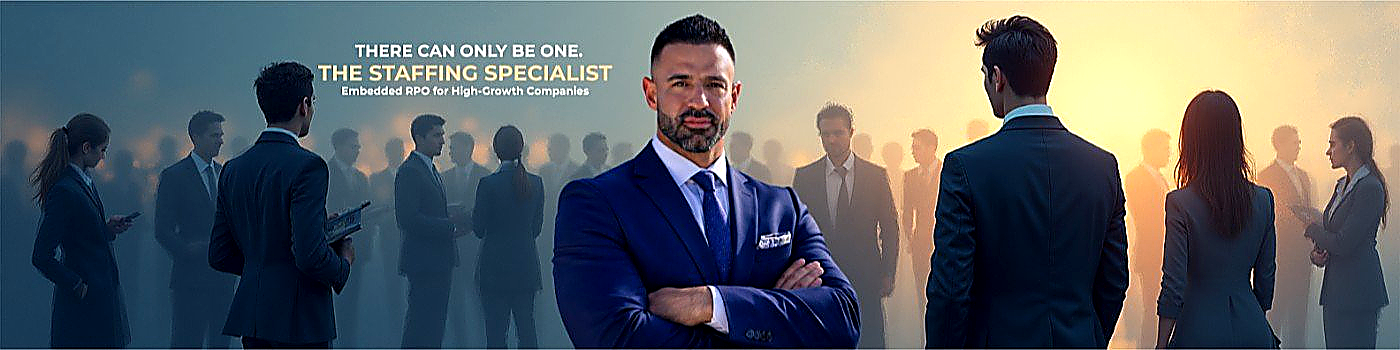
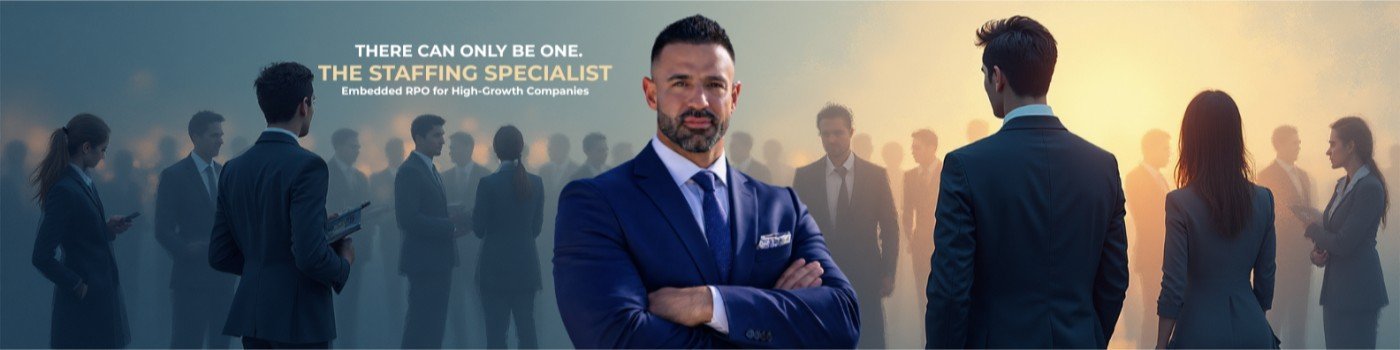
Add files via upload

diff --git a/index.html b/index.html
@@ -3,9 +3,9 @@
 <head>
   <meta charset="utf-8" />
   <meta name="viewport" content="width=device-width, initial-scale=1" />
-<title>The Staffing Specialist | Built by Jonah Adelman. Elite RPO Recruiting for High-Growth Companies</title>
+<title>The Staffing Specialist | Built by Jonah Adelman — Elite RPO Recruiting for High-Growth Companies</title>
   <meta name="description" content="Elite RPO and Talent Acquisition partner. Build world‑class teams with speed, precision, and accountability. The Staffing Specialist delivers outcomes, not excuses." />
-  <meta property="og:title" content="The Staffing Specialist: Elite RPO and Talent Acquisition" />
+  <meta property="og:title" content="The Staffing Specialist — Elite RPO & Talent Acquisition" />
   <meta property="og:description" content="Build world‑class teams with speed, precision, and accountability." />
   <meta property="og:type" content="website" />
   <meta name="theme-color" content="#0b1020" />
@@ -318,14 +318,6 @@
   </style>
 </head>
 <body>
-  <!-- SVG sharpening filter for banner -->
-  <svg width="0" height="0" style="position:absolute;">
-    <defs>
-      <filter id="sharpen">
-        <feConvolveMatrix order="3" kernelMatrix="0 -0.5 0  -0.5 3 -0.5  0 -0.5 0" preserveAlpha="true"/>
-      </filter>
-    </defs>
-  </svg>
   <!-- Mobile Nav -->
   <div class="mob-nav" id="mob-nav">
     <button class="mob-close" onclick="closeMobNav()">✕</button>
@@ -367,7 +359,7 @@
         </div>
 </div>
 
-    <!-- HERO BANNER IMAGE: animated entrance -->
+    <!-- HERO BANNER IMAGE — animated entrance -->
     <style>
       @keyframes bannerDrift {
         0%   { transform: scale(1.08) translateX(12px); opacity: 0; }
@@ -385,8 +377,6 @@
         object-position: center 28%;
         display: block;
         animation: bannerDrift 2.2s cubic-bezier(0.22, 1, 0.36, 1) forwards;
-        filter: url(#sharpen) contrast(1.18) saturate(1.12) brightness(1.04);
-        image-rendering: -webkit-optimize-contrast;
       }
       .hero-banner-overlay {
         position: absolute;
@@ -396,7 +386,7 @@
       }
     </style>
     <div style="width:100%;overflow:hidden;position:relative;max-height:400px;min-height:280px;">
-      <img src="1774585555217_image.png" alt="Jonah Adelman, The Staffing Specialist" class="hero-banner-img"/>
+      <img src="1774585555217_image.png" alt="Jonah Adelman — The Staffing Specialist" class="hero-banner-img"/>
       <div class="hero-banner-overlay"></div>
     </div>
 
@@ -419,7 +409,7 @@
         </div>
         <div class="card" style="padding:22px">
           <h3 style="margin-top:0">Immediate Hiring Needs?</h3>
-          <p class="muted" style="margin-top:6px">Tell us your roles and timeline. We will propose a plan within 24 hours.</p>
+          <p class="muted" style="margin-top:6px">Tell us your roles and timeline — we'll propose a plan within 24 hours.</p>
           <form id="quickform">
             <input name="name" placeholder="Your name" required />
             <input name="email" placeholder="Work email" type="email" required />
@@ -432,11 +422,11 @@
       </div>
     </section>
 
-    <!-- BUILT IN THE FIELD: PROOF -->
+    <!-- BUILT IN THE FIELD — PROOF -->
     <section id="proof" style="padding:80px 0;background:linear-gradient(180deg,rgba(0,255,209,.03),transparent);border-top:1px solid rgba(255,255,255,.08);">
       <div class="container">
         <div style="text-align:center;margin-bottom:48px;">
-          <div style="display:inline-flex;align-items:center;gap:8px;background:rgba(255,255,255,.04);border:1px solid rgba(255,255,255,.1);padding:5px 16px;border-radius:999px;font-size:11px;font-weight:700;letter-spacing:.12em;text-transform:uppercase;color:#7eb8d4;margin-bottom:14px;">Built In The Field, Not In Theory</div>
+          <div style="display:inline-flex;align-items:center;gap:8px;background:rgba(255,255,255,.04);border:1px solid rgba(255,255,255,.1);padding:5px 16px;border-radius:999px;font-size:11px;font-weight:700;letter-spacing:.12em;text-transform:uppercase;color:#7eb8d4;margin-bottom:14px;">Built In The Field — Not In Theory</div>
           <h2 style="font-size:42px;font-weight:900;letter-spacing:-.5px;margin:0;">This is what sells.<br><span style="color:#e8f0ff;">Not features. Results.</span></h2>
         </div>
         <div style="display:grid;grid-template-columns:repeat(4,1fr);gap:1px;background:rgba(255,255,255,.07);border:1px solid rgba(255,255,255,.08);border-radius:20px;overflow:hidden;margin-bottom:48px;">
@@ -488,14 +478,14 @@
           <div style="background:rgba(255,255,255,.07);border:1px solid rgba(255,255,255,.13);border-radius:18px;padding:32px;">
             <div style="font-size:13px;font-weight:800;color:#e8f0ff;text-transform:uppercase;letter-spacing:.1em;margin-bottom:20px;">💣 My Favorite Validation</div>
             <p style="font-size:16px;color:#c9d6ff;line-height:1.8;margin-bottom:16px;font-style:italic;">"When a company hires another firm... and they come back with candidates I already spoke to 6 months ago."</p>
-            <p style="font-size:13px;color:#aabbd0;">That happens more than you think. I remember everything: wins, losses, misses. It all fuels me.</p>
-            <div style="margin-top:20px;padding-top:16px;border-top:1px solid rgba(255,255,255,.06);font-size:12px;color:#9aaabf;font-weight:600;font-style:italic;">: Jonah Adelman, The Staffing Specialist</div>
+            <p style="font-size:13px;color:#aabbd0;">That happens more than you think. I remember everything — wins, losses, misses. It all fuels me.</p>
+            <div style="margin-top:20px;padding-top:16px;border-top:1px solid rgba(255,255,255,.06);font-size:12px;color:#9aaabf;font-weight:600;font-style:italic;">— Jonah Adelman, The Staffing Specialist</div>
           </div>
         </div>
       </div>
     </section>
 
-    <!-- THE SYSTEM: WEAPONS SECTION -->
+    <!-- THE SYSTEM — WEAPONS SECTION -->
     <section style="padding:80px 0;border-top:1px solid rgba(255,255,255,.06);">
       <div class="container">
         <div style="text-align:center;margin-bottom:48px;">
@@ -515,7 +505,7 @@
             <div style="position:absolute;top:0;right:0;width:120px;height:120px;display:none;pointer-events:none;"></div>
             <div style="font-size:11px;font-weight:700;color:#a89dff;text-transform:uppercase;letter-spacing:.12em;margin-bottom:8px;">⚡ TalentBase</div>
             <div style="font-size:22px;font-weight:900;color:#e8f0ff;margin-bottom:10px;">Your Recruiting<br>Command Center</div>
-            <p style="font-size:14px;color:#c9d6e8;line-height:1.6;">AI matching. Boolean search. Resume parsing. Offer builder. Interview scorecards. Headcount planning. Submission emails. The ATS that thinks like a recruiter, not a database admin.</p>
+            <p style="font-size:14px;color:#c9d6e8;line-height:1.6;">AI matching. Boolean search. Resume parsing. Offer builder. Interview scorecards. Headcount planning. Submission emails. The ATS that thinks like a recruiter — not a database admin.</p>
             <a href="TalentBase_TheStaffingSpecialist.html" target="_blank" style="display:inline-flex;align-items:center;gap:8px;margin-top:16px;font-size:13px;font-weight:700;color:#a89dff;">Get Access →</a>
           </div>
           <div style="background:linear-gradient(135deg,rgba(0,255,209,.06),rgba(0,255,209,.02));border:1px solid rgba(0,255,209,.15);border-radius:20px;padding:32px;position:relative;overflow:hidden;">
@@ -529,7 +519,7 @@
             <div style="position:absolute;top:0;right:0;width:120px;height:120px;display:none;pointer-events:none;"></div>
             <div style="font-size:11px;font-weight:700;color:#c9a84c;text-transform:uppercase;letter-spacing:.12em;margin-bottom:8px;">💰 Compensation Intelligence</div>
             <div style="font-size:22px;font-weight:900;color:#e8f0ff;margin-bottom:10px;">Know The Market Before<br>You Compete In It</div>
-            <p style="font-size:14px;color:#c9d6e8;line-height:1.6;">Paste any resume or job description. Get instant market analysis: floor, target, ceiling salary. Know Your Worth. Know What The Market Pays. Like Kelly Blue Book for talent.</p>
+            <p style="font-size:14px;color:#c9d6e8;line-height:1.6;">Paste any resume or job description. Get instant market analysis — floor, target, ceiling salary. Know Your Worth. Know What The Market Pays. Like Kelly Blue Book for talent.</p>
             <a href="javascript:void(0)" onclick="cwOpen()" style="display:inline-flex;align-items:center;gap:8px;margin-top:16px;font-size:13px;font-weight:700;color:#c9a84c;">Try Free →</a>
           </div>
         </div>
@@ -604,7 +594,7 @@
           </div>
           <div class="stat card" style="text-align:center;">
             <strong style="font-size:22px;color:#e8f0ff;">1,500+</strong>
-            <div class="muted" style="font-size:11px;margin-top:4px;">Hires delivered, single global client</div>
+            <div class="muted" style="font-size:11px;margin-top:4px;">Hires delivered — single global client</div>
           </div>
           <div class="stat card" style="text-align:center;">
             <strong style="font-size:22px;color:#e8f0ff;">&lt;35 days</strong>
@@ -660,7 +650,7 @@
             </div>
           </div>
           <div class="card" style="padding:22px;">
-            <div style="font-size:11px;color:#b8c8d8;text-transform:uppercase;letter-spacing:.07em;font-weight:700;margin-bottom:10px;">Candidate, Unsolicited Feedback</div>
+            <div style="font-size:11px;color:#b8c8d8;text-transform:uppercase;letter-spacing:.07em;font-weight:700;margin-bottom:10px;">Candidate — Unsolicited Feedback</div>
             <div class="quote">&ldquo;Regardless of outcome, this was a great candidate experience so far. Quick, informative, &amp; responsive. The process was obviously designed!&rdquo;
             </div>
           </div>
@@ -753,12 +743,12 @@
             <div style="display:inline-flex;align-items:center;gap:8px;background:rgba(255,77,0,.12);border:1px solid rgba(255,77,0,.25);padding:5px 14px;border-radius:999px;font-size:11px;font-weight:700;letter-spacing:.12em;text-transform:uppercase;color:#ff6520;margin-bottom:16px;">
               <span>🎯</span> Free Tool
             </div>
-            <h2 style="font-size:36px;font-weight:900;line-height:1.1;margin:0 0 16px;letter-spacing:-.3px;">Happy Hunting: <span style="color:#d4703a;">decode any staffing firm posting in 10 seconds.</span></h2>
+            <h2 style="font-size:36px;font-weight:900;line-height:1.1;margin:0 0 16px;letter-spacing:-.3px;">Happy Hunting — <span style="color:#d4703a;">decode any staffing firm posting in 10 seconds.</span></h2>
             <p style="font-size:17px;color:#c9d6ff;margin-bottom:24px;line-height:1.6;">Every staffing firm posting is a company that already proven they will write a check to a recruiter. Happy Hunting reveals the end client, hiring manager, and gives you a ready-to-send pitch instantly.</p>
             <div style="display:flex;flex-direction:column;gap:10px;margin-bottom:28px;">
-              <div style="display:flex;align-items:flex-start;gap:10px;font-size:14px;color:#c9d6ff;"><div style="width:18px;height:18px;border-radius:50%;background:rgba(180,70,0,.15);border:1px solid rgba(180,70,0,.25);display:grid;place-items:center;flex-shrink:0;margin-top:2px;font-size:10px;color:#c05020;">✓</div><div><strong>Decode the client</strong> : AI identifies the real end company hidden behind the staffing firm posting</div></div>
-              <div style="display:flex;align-items:flex-start;gap:10px;font-size:14px;color:#c9d6ff;"><div style="width:18px;height:18px;border-radius:50%;background:rgba(180,70,0,.15);border:1px solid rgba(180,70,0,.25);display:grid;place-items:center;flex-shrink:0;margin-top:2px;font-size:10px;color:#c05020;">✓</div><div><strong>Find the hiring manager</strong> : get the exact title and LinkedIn search to reach the decision maker</div></div>
-              <div style="display:flex;align-items:flex-start;gap:10px;font-size:14px;color:#c9d6ff;"><div style="width:18px;height:18px;border-radius:50%;background:rgba(180,70,0,.15);border:1px solid rgba(180,70,0,.25);display:grid;place-items:center;flex-shrink:0;margin-top:2px;font-size:10px;color:#c05020;">✓</div><div><strong>Ready-to-send pitch</strong> : generates your outreach message and fee justification automatically</div></div>
+              <div style="display:flex;align-items:flex-start;gap:10px;font-size:14px;color:#c9d6ff;"><div style="width:18px;height:18px;border-radius:50%;background:rgba(180,70,0,.15);border:1px solid rgba(180,70,0,.25);display:grid;place-items:center;flex-shrink:0;margin-top:2px;font-size:10px;color:#c05020;">✓</div><div><strong>Decode the client</strong> — AI identifies the real end company hidden behind the staffing firm posting</div></div>
+              <div style="display:flex;align-items:flex-start;gap:10px;font-size:14px;color:#c9d6ff;"><div style="width:18px;height:18px;border-radius:50%;background:rgba(180,70,0,.15);border:1px solid rgba(180,70,0,.25);display:grid;place-items:center;flex-shrink:0;margin-top:2px;font-size:10px;color:#c05020;">✓</div><div><strong>Find the hiring manager</strong> — get the exact title and LinkedIn search to reach the decision maker</div></div>
+              <div style="display:flex;align-items:flex-start;gap:10px;font-size:14px;color:#c9d6ff;"><div style="width:18px;height:18px;border-radius:50%;background:rgba(180,70,0,.15);border:1px solid rgba(180,70,0,.25);display:grid;place-items:center;flex-shrink:0;margin-top:2px;font-size:10px;color:#c05020;">✓</div><div><strong>Ready-to-send pitch</strong> — generates your outreach message and fee justification automatically</div></div>
             </div>
             <a href="HappyHunting.html" target="_blank" style="display:inline-flex;align-items:center;gap:12px;background:#a03800;color:#fff;padding:14px 24px;border-radius:999px;font-weight:700;font-size:15px;text-decoration:none;">
               Launch Happy Hunting &#8599;
@@ -771,7 +761,7 @@
               <div style="width:10px;height:10px;border-radius:50%;background:#3a3028;flex-shrink:0;"></div>
               <div style="width:10px;height:10px;border-radius:50%;background:#3a3028;flex-shrink:0;"></div>
               <div style="width:10px;height:10px;border-radius:50%;background:#3a3028;flex-shrink:0;"></div>
-              <div style="font-size:12px;color:#d4703a;font-weight:700;margin-left:8px;font-family:'DM Mono',monospace;letter-spacing:.02em;">Happy Hunting: Decoder</div>
+              <div style="font-size:12px;color:#d4703a;font-weight:700;margin-left:8px;font-family:'DM Mono',monospace;letter-spacing:.02em;">Happy Hunting — Decoder</div>
             </div>
             <div style="padding:20px;display:flex;flex-direction:column;gap:12px;">
               <!-- Input label -->
@@ -813,26 +803,26 @@
             <div class="talentbase-eyebrow">
               <span>⚡</span> Exclusive Tool
             </div>
-            <h2 class="talentbase-headline">Meet TalentBase, the ATS <span style="color:#a89dff;">built by recruiters, for recruiters.</span></h2>
+            <h2 class="talentbase-headline">Meet TalentBase — the ATS <span style="color:#a89dff;">built by recruiters, for recruiters.</span></h2>
             <p class="talentbase-sub">The recruiting command center built from 25 years in the field. Not software built by engineers. Built by a recruiter who used it to fill 200 roles in one year with a team of 4.</p>
             <div class="talentbase-features">
-              <div class="tb-feature"><div class="tb-check">✓</div><div><strong>AI Match</strong> : rank every candidate by fit score with pros, cons, and skill gaps</div></div>
-              <div class="tb-feature"><div class="tb-check">✓</div><div><strong>AI Sourcing</strong> : describe who you need in plain English, AI scores your entire database instantly</div></div>
-              <div class="tb-feature"><div class="tb-check">✓</div><div><strong>Resume Parsing</strong> : drop a PDF and AI auto-fills the full profile in seconds</div></div>
-              <div class="tb-feature"><div class="tb-check">✓</div><div><strong>Boolean Search + Advanced Filters</strong> : 8 filters including work auth, YOE range, source, and skills</div></div>
-              <div class="tb-feature"><div class="tb-check">✓</div><div><strong>Offer Builder</strong> : select a candidate and role, AI generates a complete offer letter</div></div>
-              <div class="tb-feature"><div class="tb-check">✓</div><div><strong>Interview Scorecards</strong> : weighted criteria, required questions, structured evaluation per role</div></div>
-              <div class="tb-feature"><div class="tb-check">✓</div><div><strong>Campaigns</strong> : Always-On Pipeline, fill a role, warm up pipeline, reactivate candidates</div></div>
-              <div class="tb-feature"><div class="tb-check">✓</div><div><strong>Gmail Integration</strong> : one click opens Gmail pre-filled with outreach, follow-up, or offer</div></div>
-              <div class="tb-feature"><div class="tb-check">✓</div><div><strong>Library</strong> : 20 SHRM-compliant templates: offer letters, call scripts, scorecards, playbooks</div></div>
-              <div class="tb-feature"><div class="tb-check">✓</div><div><strong>Headcount Planning</strong> : track approved reqs, budgets, priorities, and target start dates</div></div>
-              <div class="tb-feature"><div class="tb-check">✓</div><div><strong>Kanban Pipeline + Analytics</strong> : full funnel visibility, source of hire, time-to-fill</div></div>
-              <div class="tb-feature"><div class="tb-check">✓</div><div><strong>CSV Import / Export</strong> : works with iCIMS, Greenhouse, Excel. Your data, always portable.</div></div>
-              <div class="tb-feature"><div class="tb-check">✓</div><div><strong>Sourcing Intelligence</strong> : every job auto-generates LinkedIn boolean strings, a candidate DM, and 2 follow-up email sequences</div></div>
-              <div class="tb-feature"><div class="tb-check">✓</div><div><strong>Prompt Library</strong> : 100 AI recruiting prompts built in: BD outreach, candidate DMs, objection handling, call prep, and the $1M Recruiter Prompt</div></div>
+              <div class="tb-feature"><div class="tb-check">✓</div><div><strong>AI Match</strong> — rank every candidate by fit score with pros, cons, and skill gaps</div></div>
+              <div class="tb-feature"><div class="tb-check">✓</div><div><strong>AI Sourcing</strong> — describe who you need in plain English, AI scores your entire database instantly</div></div>
+              <div class="tb-feature"><div class="tb-check">✓</div><div><strong>Resume Parsing</strong> — drop a PDF and AI auto-fills the full profile in seconds</div></div>
+              <div class="tb-feature"><div class="tb-check">✓</div><div><strong>Boolean Search + Advanced Filters</strong> — 8 filters including work auth, YOE range, source, and skills</div></div>
+              <div class="tb-feature"><div class="tb-check">✓</div><div><strong>Offer Builder</strong> — select a candidate and role, AI generates a complete offer letter</div></div>
+              <div class="tb-feature"><div class="tb-check">✓</div><div><strong>Interview Scorecards</strong> — weighted criteria, required questions, structured evaluation per role</div></div>
+              <div class="tb-feature"><div class="tb-check">✓</div><div><strong>Campaigns</strong> — Always-On Pipeline, fill a role, warm up pipeline, reactivate candidates</div></div>
+              <div class="tb-feature"><div class="tb-check">✓</div><div><strong>Gmail Integration</strong> — one click opens Gmail pre-filled with outreach, follow-up, or offer</div></div>
+              <div class="tb-feature"><div class="tb-check">✓</div><div><strong>Library</strong> — 20 SHRM-compliant templates: offer letters, call scripts, scorecards, playbooks</div></div>
+              <div class="tb-feature"><div class="tb-check">✓</div><div><strong>Headcount Planning</strong> — track approved reqs, budgets, priorities, and target start dates</div></div>
+              <div class="tb-feature"><div class="tb-check">✓</div><div><strong>Kanban Pipeline + Analytics</strong> — full funnel visibility, source of hire, time-to-fill</div></div>
+              <div class="tb-feature"><div class="tb-check">✓</div><div><strong>CSV Import / Export</strong> — works with iCIMS, Greenhouse, Excel. Your data, always portable.</div></div>
+              <div class="tb-feature"><div class="tb-check">✓</div><div><strong>Sourcing Intelligence</strong> — every job auto-generates LinkedIn boolean strings, a candidate DM, and 2 follow-up email sequences</div></div>
+              <div class="tb-feature"><div class="tb-check">✓</div><div><strong>Prompt Library</strong> — 100 AI recruiting prompts built in: BD outreach, candidate DMs, objection handling, call prep, and the $1M Recruiter Prompt</div></div>
             </div>
             <div style="margin-top:20px;padding:14px 16px;background:rgba(124,106,247,.08);border:1px solid rgba(124,106,247,.2);border-radius:8px;font-size:12px;color:#c9d6e8;line-height:1.7;">
-              <strong style="color:#a89dff;">There is nothing else like this.</strong> TalentBase is not software built in a boardroom. It was built by one recruiter who used it to fill 200 roles in one year, and it keeps getting better.
+              <strong style="color:#a89dff;">There is nothing else like this.</strong> TalentBase is not software built in a boardroom. It was built by one recruiter who used it to fill 200 roles in one year — and it keeps getting better.
             </div>
             <div style="margin-top:20px;display:flex;flex-direction:column;align-items:flex-start;gap:10px;">
               <a href="TalentBase_TheStaffingSpecialist.html" target="_blank" class="tb-launch-btn">
@@ -849,7 +839,7 @@
               <div class="tb-mock-dot" style="background:#ff5f57;"></div>
               <div class="tb-mock-dot" style="background:#febc2e;"></div>
               <div class="tb-mock-dot" style="background:#28c840;"></div>
-              <div class="tb-mock-title">TalentBase, The Staffing Specialist</div>
+              <div class="tb-mock-title">TalentBase — The Staffing Specialists</div>
             </div>
             <div class="tb-mock-body">
               <div class="tb-mock-stat-row">
@@ -857,7 +847,7 @@
                 <div class="tb-mock-stat"><div class="tb-mock-stat-label">Open Jobs</div><div class="tb-mock-stat-val" style="color:#e8f0ff;">6</div></div>
                 <div class="tb-mock-stat"><div class="tb-mock-stat-label">Interviewing</div><div class="tb-mock-stat-val" style="color:#f5a623;">8</div></div>
               </div>
-              <div style="font-size:11px;color:#5a5a7a;text-transform:uppercase;letter-spacing:.06em;margin-bottom:6px;font-weight:600;">AI Match Results: Sr. Program Manager</div>
+              <div style="font-size:11px;color:#5a5a7a;text-transform:uppercase;letter-spacing:.06em;margin-bottom:6px;font-weight:600;">AI Match Results — Sr. Program Manager</div>
               <div class="tb-mock-row">
                 <div style="font-size:10px;color:#7c6af7;font-weight:700;width:16px;">1</div>
                 <div class="tb-mock-av" style="background:#5a4db520;color:#9d8fff;">SJ</div>
@@ -964,13 +954,13 @@
                 <p style="font-size:17px;font-weight:500;color:#e8f0ff;margin:0;line-height:1.6;">"When I partner with a company, I'm all in. I want to feel like the company is mine, because that's when the work is at its best."</p>
               </div>
 
-              <p>I don't operate on contingency. I don't believe in retained search models where there's distance from the outcome. When you get that version of me, you get a recruiter who will not stop until the role is filled, and filled with someone who makes the company better.</p>
+              <p>I don't operate on contingency. I don't believe in retained search models where there's distance from the outcome. When you get that version of me, you get a recruiter who will not stop until the role is filled — and filled with someone who makes the company better.</p>
               <p>No transactions. No fee-per-hire. Just a recruiter on a mission, with a purpose to be part of something special.</p>
               <p>My success has never come from tactics alone. It comes from genuinely caring: about the company, about the people, about the mission we're all building toward.</p>
 
               <!-- ROI moment -->
               <div style="background:linear-gradient(135deg,rgba(255,255,255,.03),rgba(255,255,255,.01));border:1px solid rgba(255,255,255,.07);border-radius:14px;padding:20px 22px;">
-                <p style="font-size:15px;color:#e8f0ff;font-weight:500;margin:0 0 8px;">Over the last 25 years, I've walked the halls and seen the faces of people I've hired, people who are now leading teams, driving innovation, and shaping the future of the business.</p>
+                <p style="font-size:15px;color:#e8f0ff;font-weight:500;margin:0 0 8px;">Over the last 25 years, I've walked the halls and seen the faces of people I've hired — people who are now leading teams, driving innovation, and shaping the future of the business.</p>
                 <p style="font-size:14px;color:#aabbd0;margin:0;font-style:italic;">That's the real ROI. That's the part I'm most proud of.</p>
               </div>
 
@@ -999,12 +989,12 @@
 
         <!-- Header -->
         <div style="text-align:center;margin-bottom:60px;">
-          <div style="display:inline-flex;align-items:center;gap:8px;background:rgba(255,255,255,.04);border:1px solid rgba(255,255,255,.1);padding:5px 16px;border-radius:999px;font-size:11px;font-weight:700;letter-spacing:.12em;text-transform:uppercase;color:#00ffd1;margin-bottom:16px;">🚀 New Feature: Job Distribution Network</div>
+          <div style="display:inline-flex;align-items:center;gap:8px;background:rgba(255,255,255,.04);border:1px solid rgba(255,255,255,.1);padding:5px 16px;border-radius:999px;font-size:11px;font-weight:700;letter-spacing:.12em;text-transform:uppercase;color:#00ffd1;margin-bottom:16px;">🚀 New Feature — Job Distribution Network</div>
           <h2 style="font-family:Georgia,serif;font-size:48px;font-weight:900;line-height:1.05;letter-spacing:-.5px;margin:0 0 12px;">Play Telephone.<br><span style="color:#e8f0ff;">2026 AI Version.</span></h2>
-          <p style="font-size:18px;color:#a0b4cc;max-width:620px;margin:0 auto;line-height:1.7;">Post a job with The Staffing Specialist. We amplify it through our exclusive talent network and AI distribution engine, sending your role viral and delivering <strong style="color:#e8f0ff;">5–10x the applicants</strong> directly to your careers page.</p>
+          <p style="font-size:18px;color:#a0b4cc;max-width:620px;margin:0 auto;line-height:1.7;">Post a job with The Staffing Specialist. We amplify it through our exclusive talent network and AI distribution engine — sending your role viral and delivering <strong style="color:#e8f0ff;">5–10x the applicants</strong> directly to your careers page.</p>
         </div>
 
-        <!-- How it works: visual flow -->
+        <!-- How it works — visual flow -->
         <div style="display:grid;grid-template-columns:1fr auto 1fr auto 1fr auto 1fr;gap:0;align-items:center;margin-bottom:64px;">
 
           <!-- Step 1 -->
@@ -1023,7 +1013,7 @@
             <div style="font-size:36px;margin-bottom:14px;">🤖</div>
             <div style="font-size:11px;font-weight:700;color:var(--teal);text-transform:uppercase;letter-spacing:.1em;margin-bottom:6px;">Step 2</div>
             <div style="font-size:15px;font-weight:700;color:#e8f0ff;margin-bottom:8px;">AI Amplification</div>
-            <div style="font-size:13px;color:#aabbd0;line-height:1.5;">Our AI rewrites your posting for maximum reach, optimized for every channel, every audience, and every format.</div>
+            <div style="font-size:13px;color:#aabbd0;line-height:1.5;">Our AI rewrites your posting for maximum reach — optimized for every channel, every audience, every format.</div>
           </div>
 
           <!-- Arrow -->
@@ -1075,12 +1065,12 @@
           <div style="background:rgba(255,255,255,.07);border:1px solid rgba(255,255,255,.13);border-radius:16px;padding:24px;">
             <div style="font-size:20px;margin-bottom:12px;">🎙</div>
             <div style="font-size:14px;font-weight:700;color:#e8f0ff;margin-bottom:8px;">The Telephone Effect</div>
-            <div style="font-size:13px;color:#aabbd0;line-height:1.6;">Your job gets passed through our network the way great news spreads: organically, enthusiastically, and to exactly the right ears. AI makes sure the message never gets lost.</div>
+            <div style="font-size:13px;color:#aabbd0;line-height:1.6;">Your job gets passed through our network the way great news spreads — organically, enthusiastically, and to exactly the right ears. AI makes sure the message never gets lost.</div>
           </div>
           <div style="background:rgba(255,255,255,.07);border:1px solid rgba(255,255,255,.13);border-radius:16px;padding:24px;">
             <div style="font-size:20px;margin-bottom:12px;">🔒</div>
             <div style="font-size:14px;font-weight:700;color:#e8f0ff;margin-bottom:8px;">Exclusive Talent Pool</div>
-            <div style="font-size:13px;color:#aabbd0;line-height:1.6;">Built over 25 years. Thousands of passive candidates who trust The Staffing Specialist. When we say a role is worth applying for, they listen.</div>
+            <div style="font-size:13px;color:#aabbd0;line-height:1.6;">Built over 25 years. Thousands of passive candidates who trust The Staffing Specialist. When we say a role is worth applying for — they listen.</div>
           </div>
           <div style="background:rgba(255,255,255,.07);border:1px solid rgba(255,255,255,.13);border-radius:16px;padding:24px;">
             <div style="font-size:20px;margin-bottom:12px;">📊</div>
@@ -1108,7 +1098,7 @@
           <ul class="muted">
             <li>Dedicated lead partner (no handoffs)</li>
             <li>Weekly reporting &amp; executive updates</li>
-            <li>Flexible pricing, aligned to outcomes</li>
+            <li>Flexible pricing — aligned to outcomes</li>
           </ul>
         </div>
         <div class="card" style="padding:22px">
@@ -1148,7 +1138,7 @@
       msgEl.textContent = "Submitting…";
       try {
         const res = await fetch(form.action, { method: "POST", headers: { Accept: "application/json" }, body: new FormData(form) });
-        if (res.ok) { msgEl.textContent = "✅ Thanks. We'll be in touch within 24 hours."; form.reset(); }
+        if (res.ok) { msgEl.textContent = "✅ Thanks — we'll be in touch within 24 hours."; form.reset(); }
         else { const data = await res.json().catch(() => ({})); msgEl.textContent = data?.errors?.[0]?.message || "⚠ Something went wrong. Try again."; }
       } catch { msgEl.textContent = "🚫 Network error. Please try again."; }
     }
@@ -1240,12 +1230,12 @@
       <div class="cw-m on" id="cwm-candidate" onclick="cwMode('candidate')">
         <div class="cw-m-icon">🙋</div>
         <div class="cw-m-title">Know Your Worth</div>
-        <div class="cw-m-desc">Paste your resume and see what the market pays for your experience today.</div>
+        <div class="cw-m-desc">Paste your resume — see what the market pays for your experience today.</div>
       </div>
       <div class="cw-m" id="cwm-company" onclick="cwMode('company')">
         <div class="cw-m-icon">🏢</div>
         <div class="cw-m-title">What The Market Pays</div>
-        <div class="cw-m-desc">Paste a job description and see what companies are actually paying right now.</div>
+        <div class="cw-m-desc">Paste a job description — see what companies are actually paying right now.</div>
       </div>
     </div>
     <div class="cw-body">
@@ -1305,7 +1295,7 @@ function cwTab(t) {
 function cwHandleFile(file) {
   if(!file) return;
   var nameEl = document.getElementById('cw-file-name');
-  nameEl.textContent = '📎 ' + file.name + ' (reading...)';
+  nameEl.textContent = '📎 ' + file.name + ' — reading...';
   nameEl.style.display = 'block';
   var reader = new FileReader();
   reader.onload = function(e) {
@@ -1396,7 +1386,7 @@ async function cwRun() {
     var tc = j.trend==='Up'?'#22d47a':j.trend==='Down'?'#ff6b6b':'#f5a623';
     var dc = j.demand==='High'?'#22d47a':j.demand==='Low'?'#ff6b6b':'#f5a623';
     res.innerHTML =
-      '<div class="cw-rlbl">' + (_cwMode==='candidate'?'🙋 Your Market Value':'🏢 Market Pay Analysis') + ': ' + (j.role||'') + '</div>' +
+      '<div class="cw-rlbl">' + (_cwMode==='candidate'?'🙋 Your Market Value':'🏢 Market Pay Analysis') + ' — ' + (j.role||'') + '</div>' +
       '<div class="cw-salary">' + fmt(j.mid) + '</div>' +
       '<div class="cw-salary-lbl">' + (_cwMode==='candidate'?'Your market value target · ':'Midpoint market rate · ') + (j.location||'National') + '</div>' +
       '<div class="cw-bars">' +
